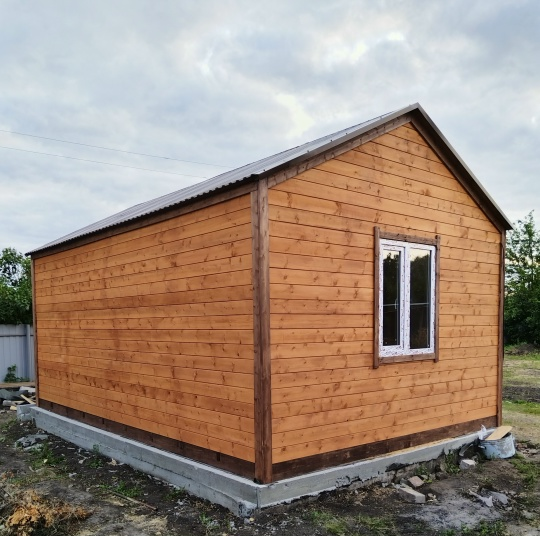
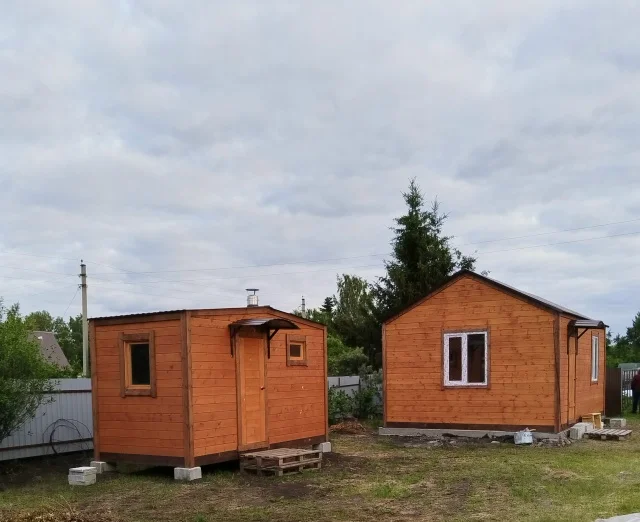
feat: заменить фото и добавить видео для Дачного домика стандарт
- 3 новых фото (main 1600px, gallery 640px и 540px)
- VK clip видео в карточку каталога
- Убрана старая gallery-3
- VkVideoPlayer поддерживает clip- URLs

diff --git a/src/data/products.ts b/src/data/products.ts
@@ -140,6 +140,7 @@ export const CATALOG_ITEMS: CatalogItem[] = [
     description: 'Удобный дачный домик для сезонного проживания из профилированного кедрового мини бруса. Отличная теплоизоляция.',
     features: ['Сезонный', 'Теплоизоляция'],
     projectSlug: 'dachny-domik-64',
+    video: 'https://vk.ru/clip-232348817_456239028',
   },
   {
     id: 8,
@@ -281,7 +282,6 @@ export const PROJECTS: Project[] = [
       '/projects/dachny-domik-64/main.webp',
       '/projects/dachny-domik-64/gallery-1.webp',
       '/projects/dachny-domik-64/gallery-2.webp',
-      '/projects/dachny-domik-64/gallery-3.webp',
     ],
   },
   {

diff --git a/src/app/page.tsx b/src/app/page.tsx
@@ -1259,7 +1259,7 @@ function CatalogPage({ onNavigate, onOpenProject }: { onNavigate: (page: PageId)
 function VkVideoPlayer({ url }: { url: string }) {
   const embedUrl = useMemo(() => {
     // vkvideo.ru/video-OWNER_ID_ID  или  vk.com/video-OWNER_ID_ID
-    const m = url.match(/video(-?\d+)_(\d+)/)
+    const m = url.match(/(?:video|clip)(-?\d+)_(\d+)/)
     if (!m) return url
     return `https://vk.com/video_ext.php?oid=${m[1]}&id=${m[2]}&hd=2`
   }, [url])
